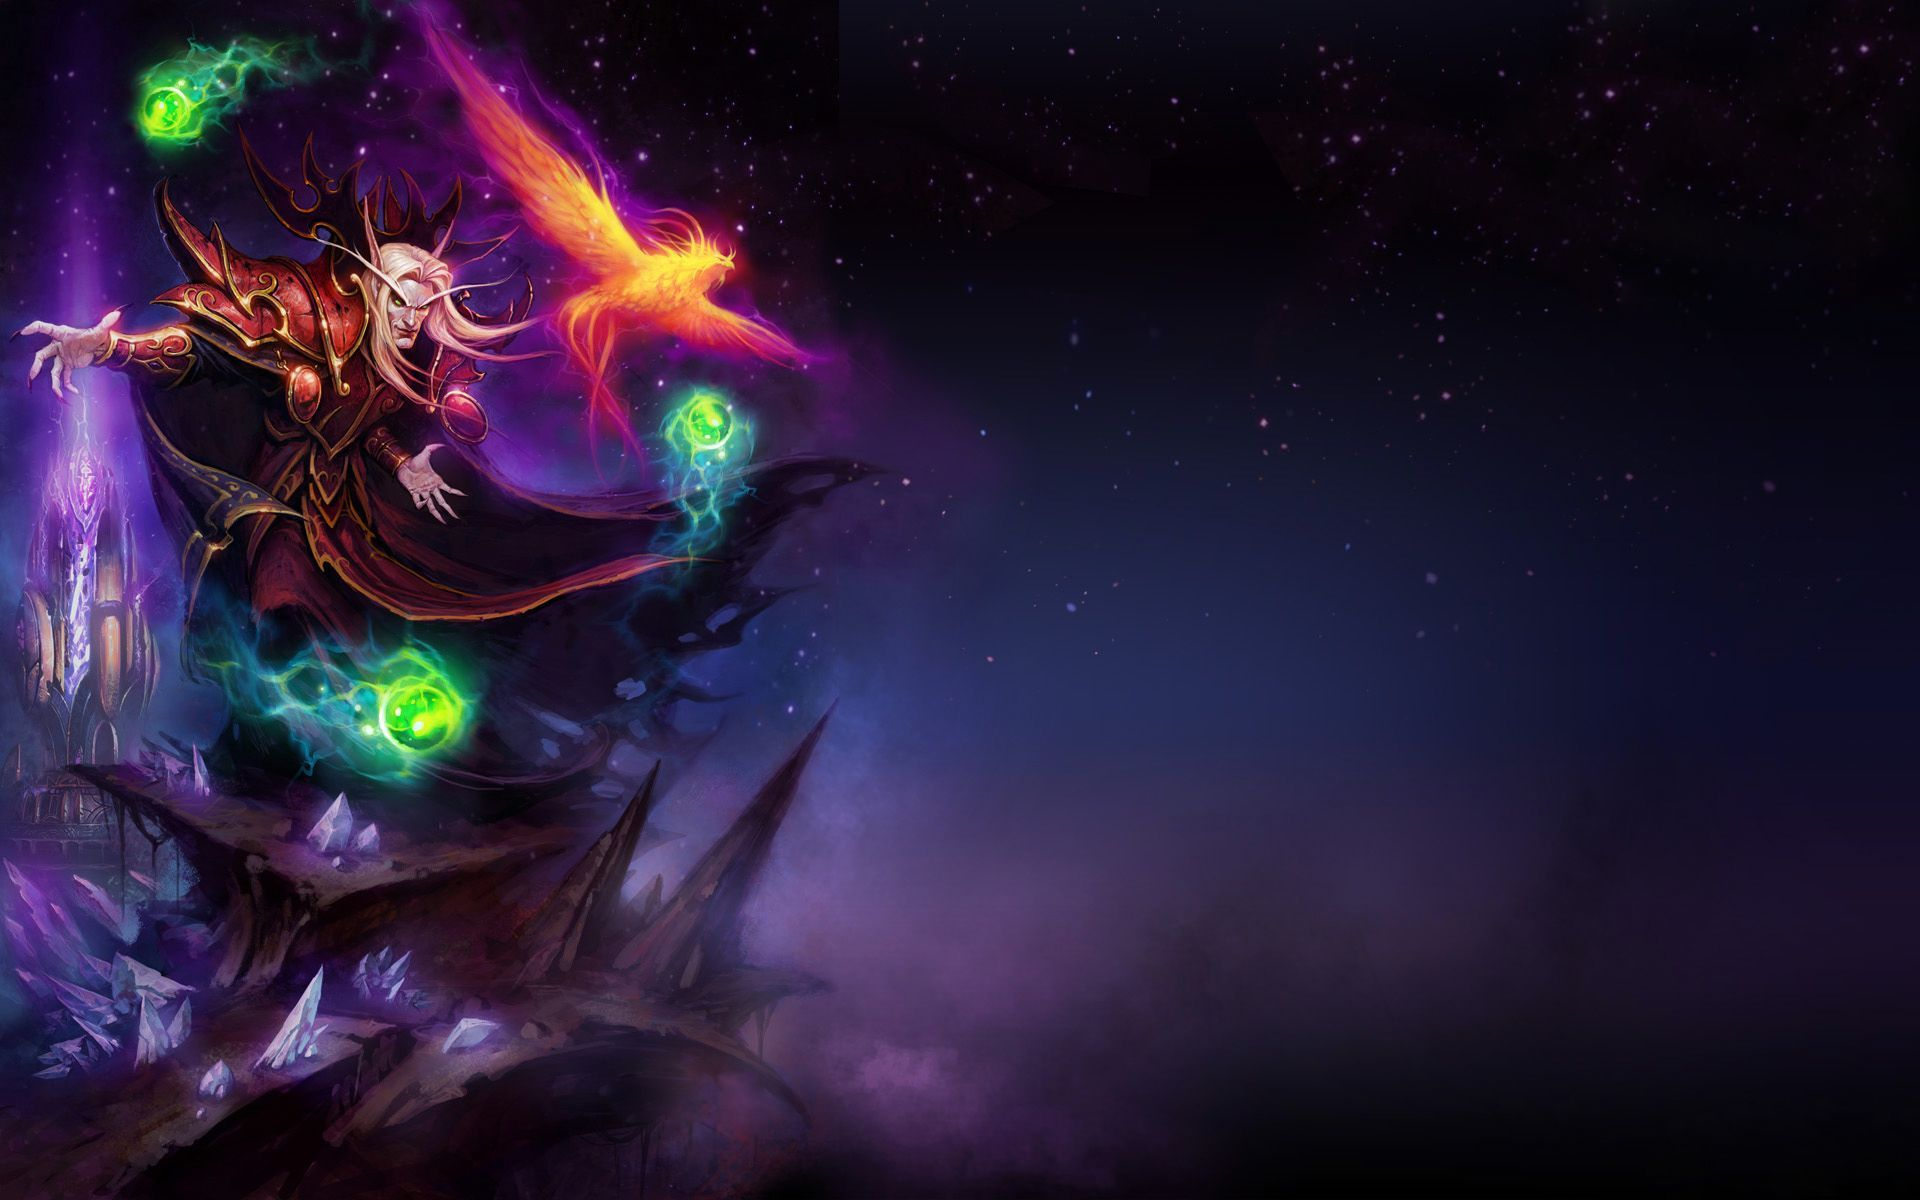
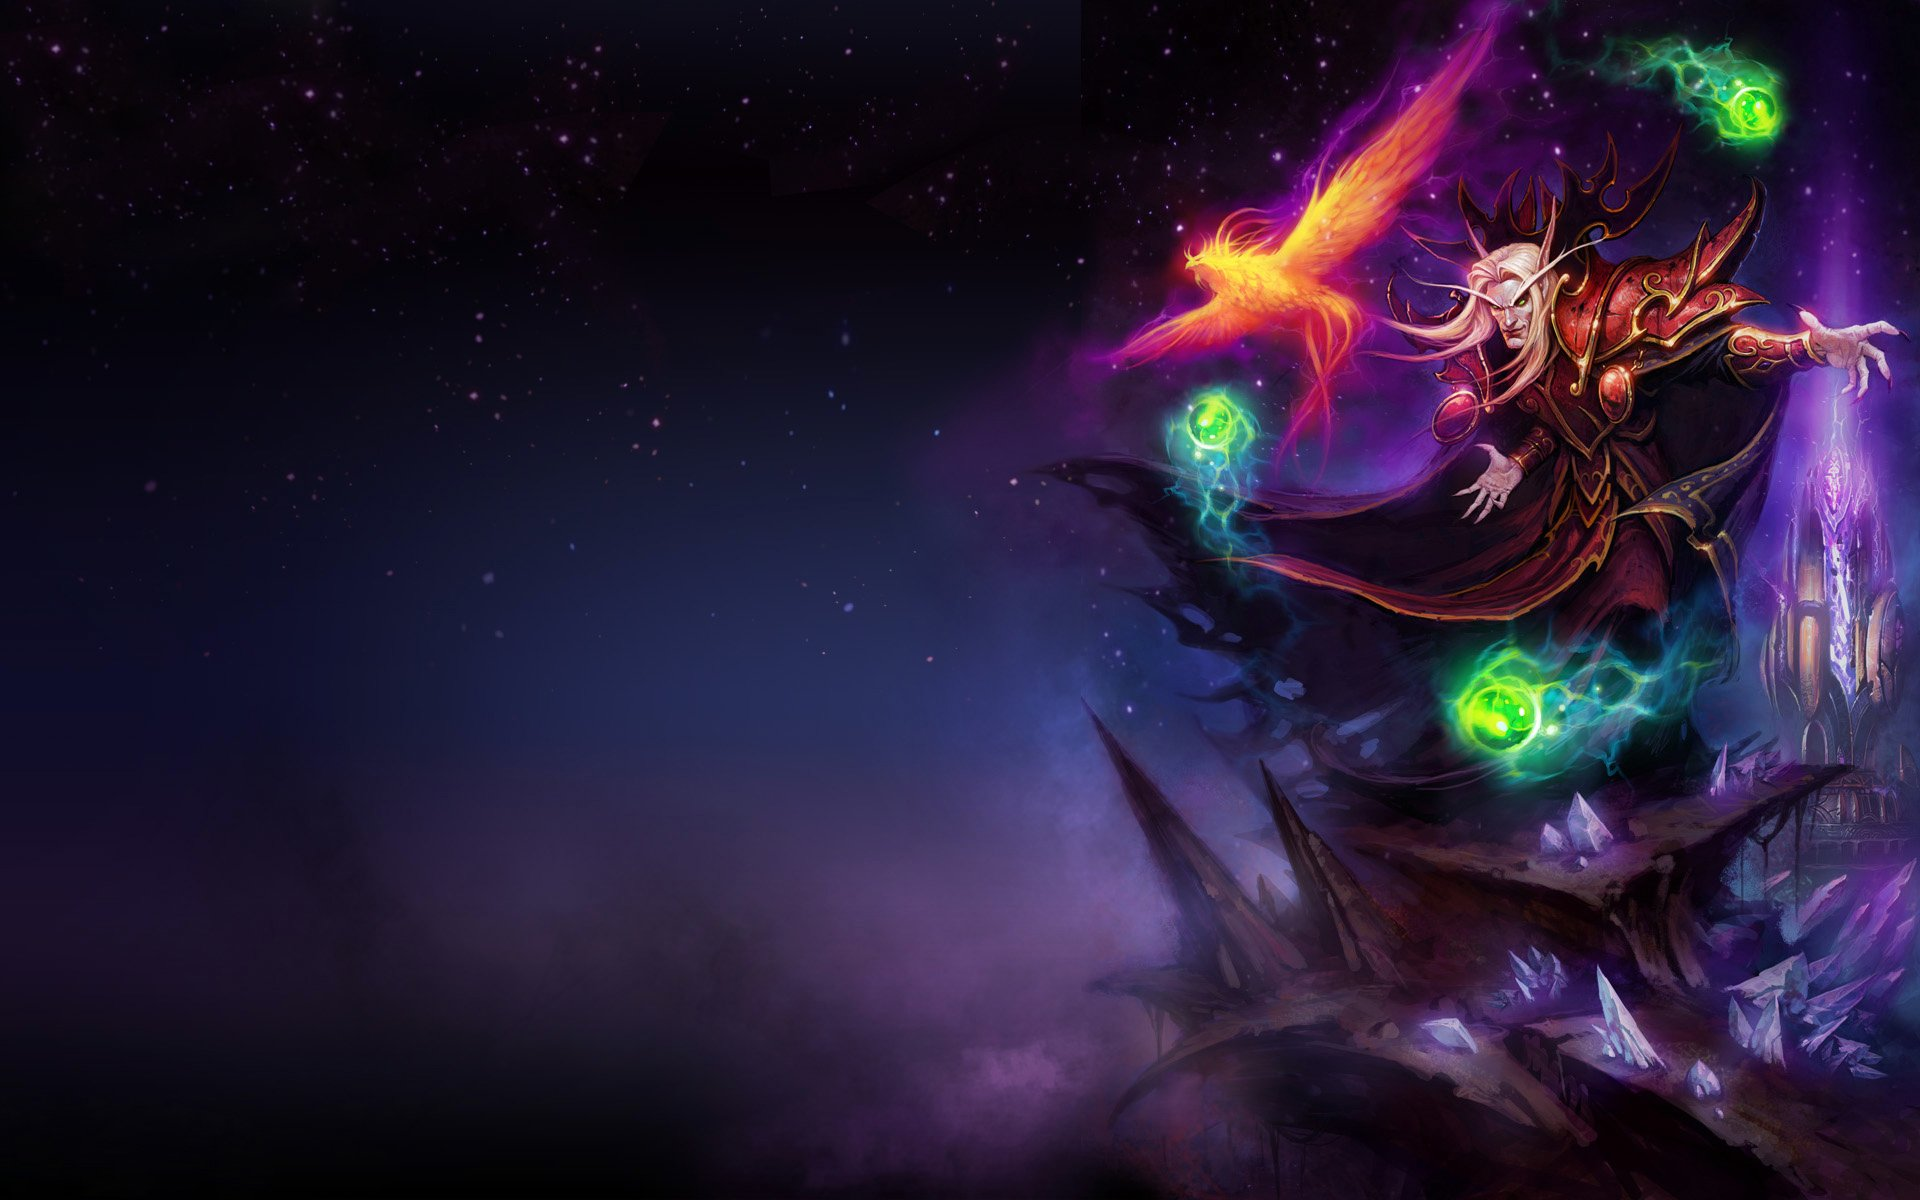
Add main page section three styling
Mobile view

diff --git a/assets/style.scss b/assets/style.scss
@@ -1,9 +1,9 @@
 @import url('https://fonts.googleapis.com/css2?family=Lato&display=swap');
 
 $main-color: #b04fff;
-$text-color: #313338;
+$text-color: #13151f;
 $rainbow: linear-gradient(90deg, rgb(21, 211, 214) 0%, rgb(71, 0, 202) 49%, rgba(255, 0, 251, 0.644) 98%);
-$white: #fff;
+$white: rgb(226, 226, 226);
 $light-color: #676767;
 $shadow-color2: #888;
 
@@ -34,12 +34,12 @@ main {
 }
 
 nav {
-  background-color: $white;
+  background-color: white;
   box-shadow: 0 1px 10px $shadow-color2;
 }
 
 .mobile-nav {
-  background-color: $white;
+  background-color: white;
 
   @include margin(80vw);
   @include flex(space-between, row);
@@ -59,7 +59,7 @@ nav {
   background-size: cover;
   background-position: 50%;
   background-repeat: no-repeat;
-  padding: 20px 60px;
+  padding: 40px 60px 70px;
 
   .iconify {
     color: $main-color;
@@ -106,21 +106,26 @@ nav {
   @include flex(space-around, column);
 
   color: $white;
-  padding: 80px 35px 200px;
-  height: 600px;
+  padding: 100px 35px 300px;
+  height: 700px;
   background-image: url(/assets/Images/Galaxy-background.jpg);
   background-size: cover;
-  background-position: 50%;
+  background-attachment: fixed;
+  background-position: bottom;
 
   h1,
   h2 {
     font-weight: bold;
     font-size: 3rem;
+    text-shadow: 1px 1px 5px $text-color;
   }
 
   h2 {
     font-size: 1rem;
     letter-spacing: 2px;
+  }
+  span {
+    text-shadow: none;
   }
 }
 
@@ -175,6 +180,18 @@ nav {
 
 .features {
   @include flex(center, row);
+}
+
+.third-sec {
+  @include flex(center, column);
+  background-image: url(/assets/Images/Kael-background.jpg);
+  background-size: cover;
+  background-attachment: fixed;
+  background-position: right;
+  height: 700px;
+  color: $white;
+  padding: 20px;
+  text-shadow: 1px 1px 5px $text-color;
 }
 
 .main-buttons {

diff --git a/index.html b/index.html
@@ -181,7 +181,9 @@
 
     <section>
       <div class="third-sec">
-        <h2>OVER 4000 ORDERS COMPLETED 98% SATISFACTION RATE</h2>
+        <h1 class="d-md-none">OVER 4000 ORDERS COMPLETED 98% SATISFACTION RATE</h1>
+        <h1 class="d-none d-md-block">OVER 4000 ORDERS COMPLETED</h1>
+        <h1 class="d-none d-md-block">98% SATISFACTION RATE</h1>
       </div>
     </section>
 
